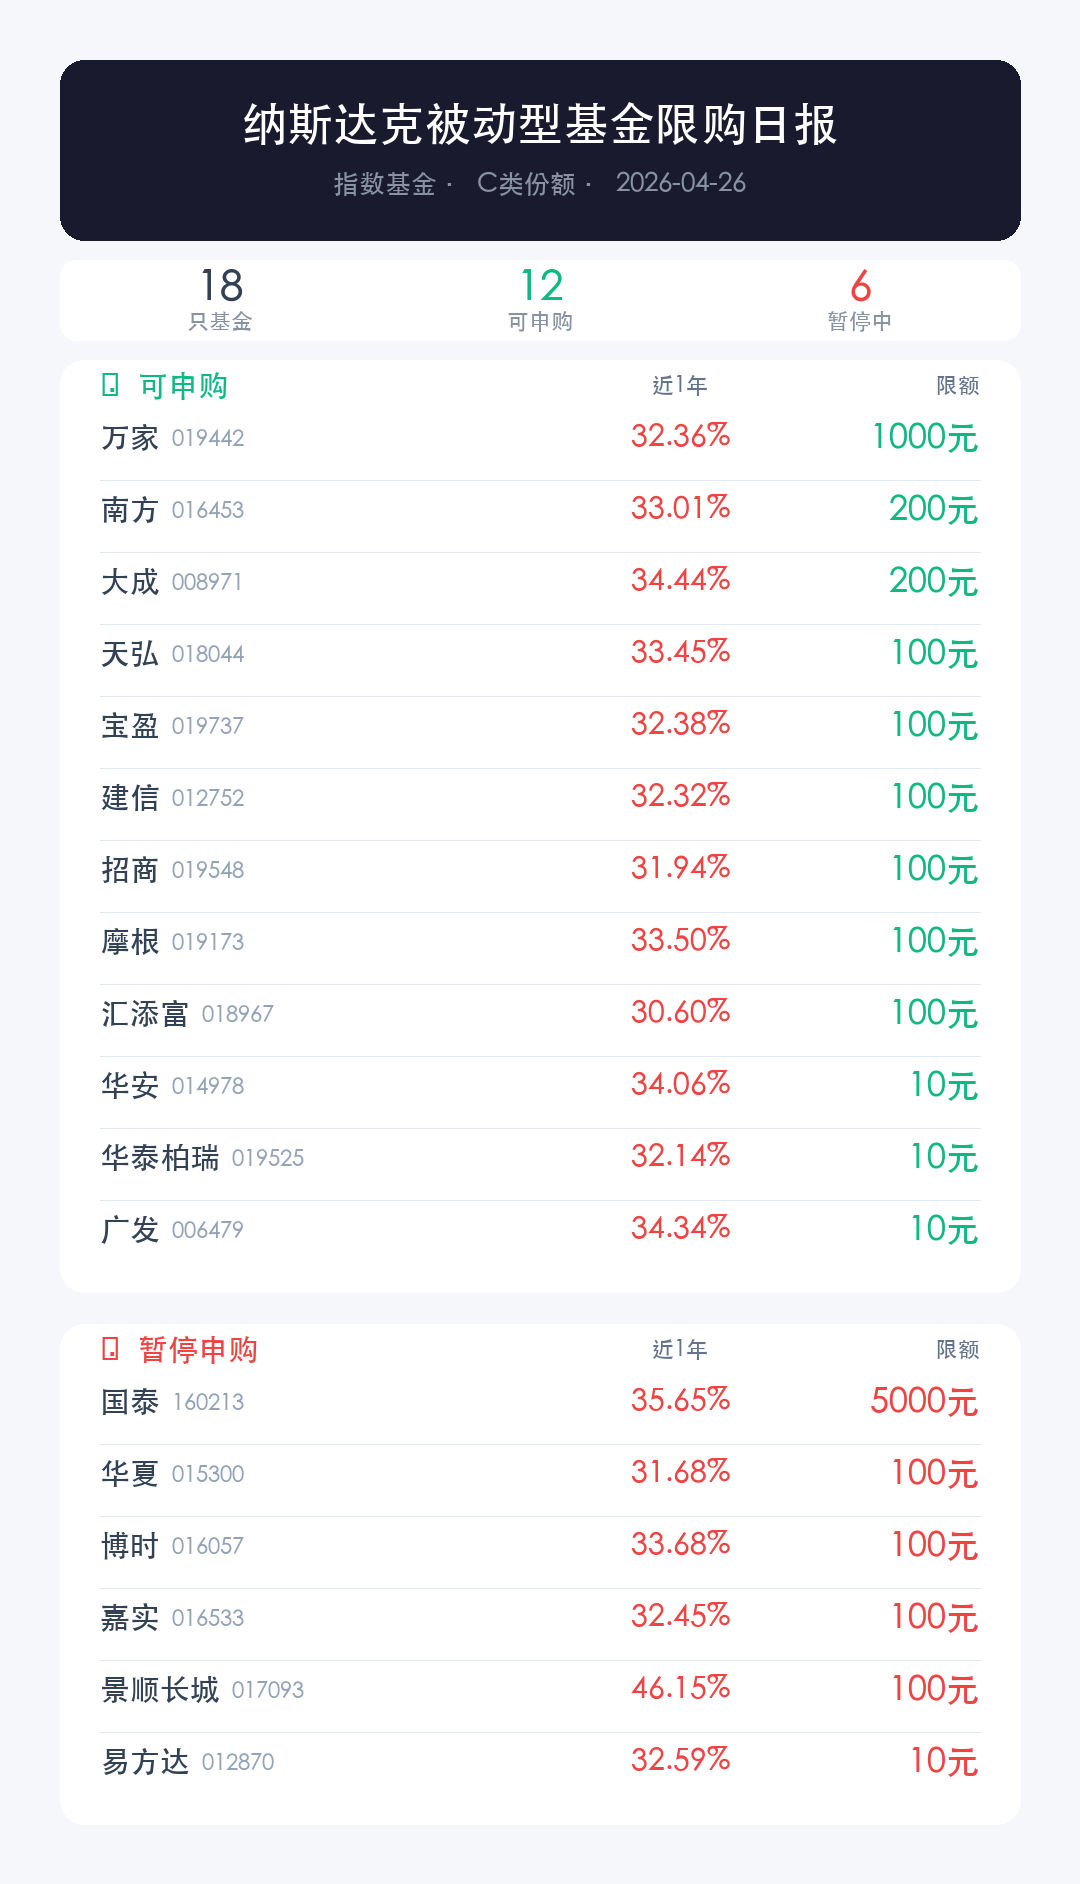
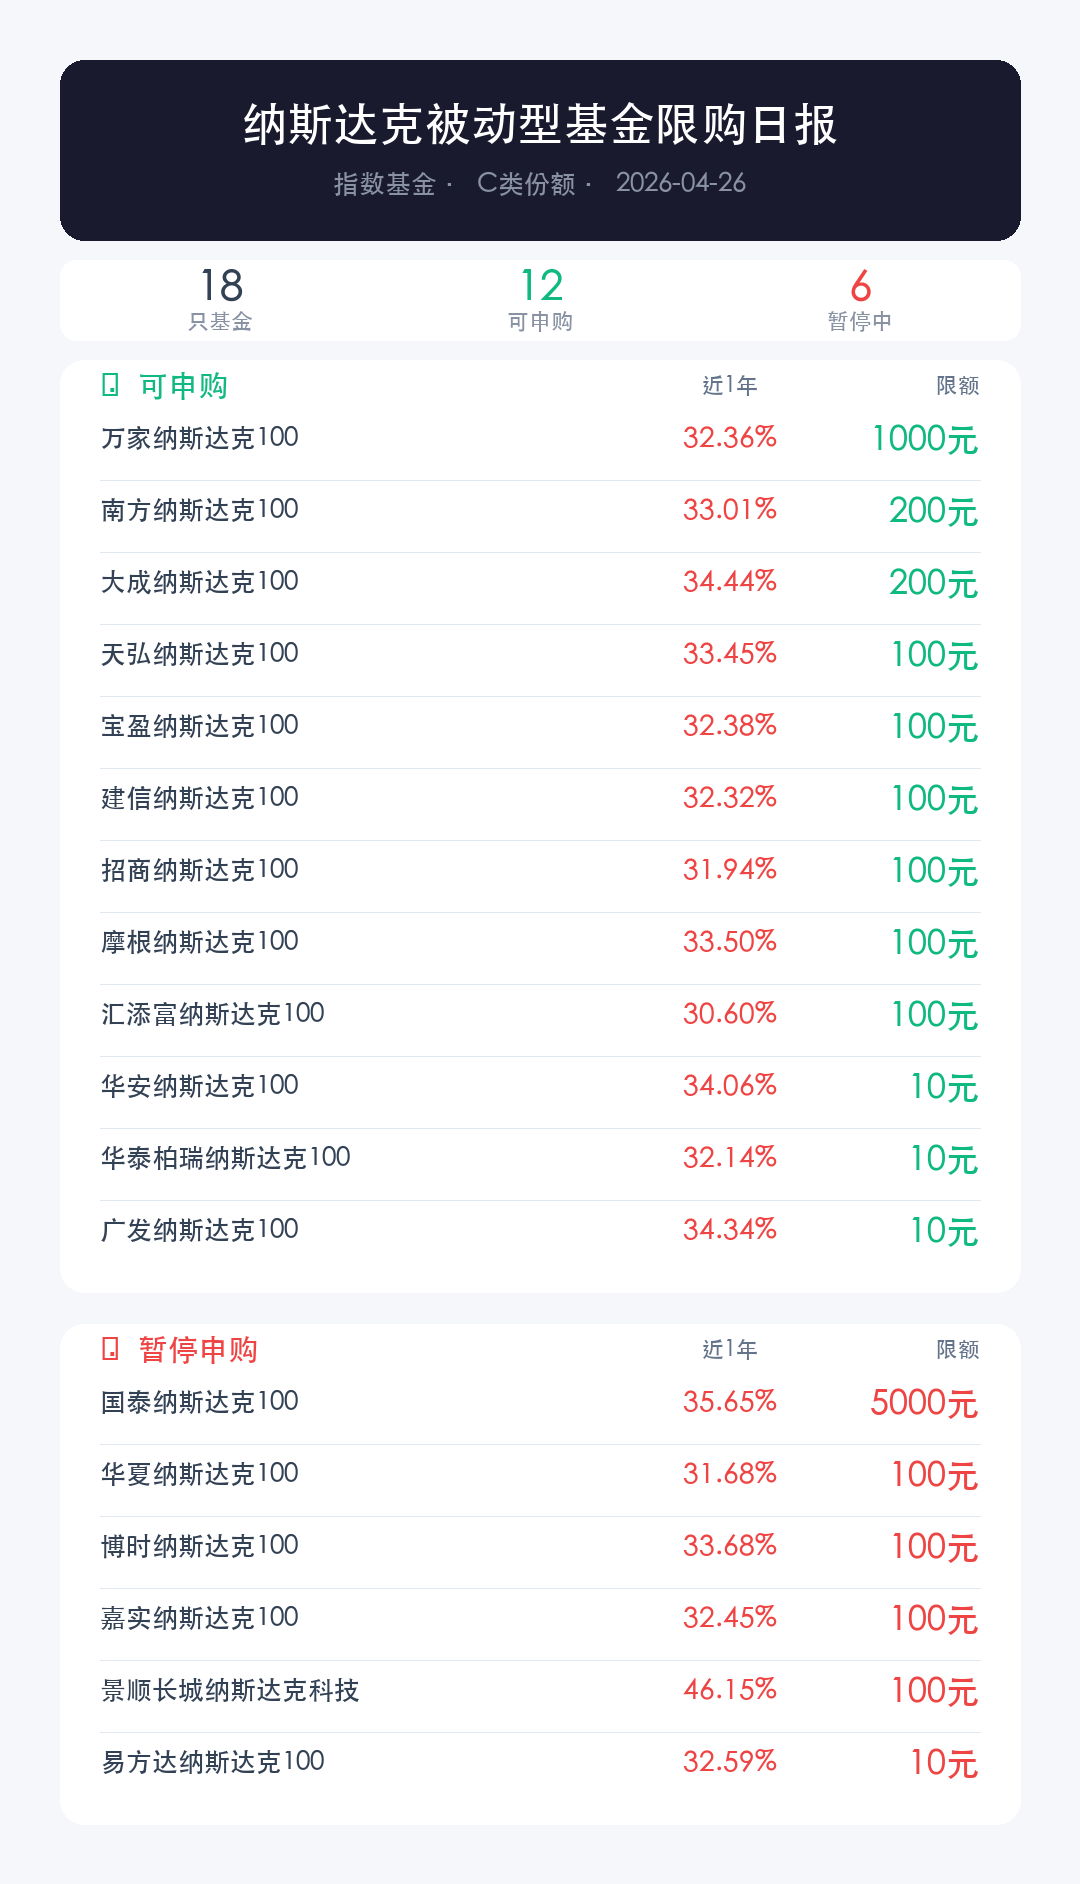
fix: 基金名称改用config中的display字段，以截图为准
- config 每只基金新增 display 字段，手动指定卡片显示名称
- 被动型：大成纳斯达克100、广发纳斯达克100 等
- 主动型：华宝纳斯达克精选、浦银安盛全球智能科技 等
- 去掉代码自动推断名称的逻辑，display 优先

diff --git a/fund_monitor/image.py b/fund_monitor/image.py
@@ -48,18 +48,63 @@ def _font(size: int) -> ImageFont.FreeTypeFont:
 
 
 # ── 工具函数 ──────────────────────────────────────
-_COMPANIES = [
-    "华泰柏瑞", "景顺长城", "易方达", "汇添富",
-    "大成", "广发", "国泰", "华安", "华夏", "南方", "天弘",
-    "嘉实", "博时", "招商", "摩根", "建信", "宝盈", "万家",
-]
+# ── 工具函数 ──────────────────────────────────────
 
 
-def _short_name(name: str) -> str:
-    for c in _COMPANIES:
-        if name.startswith(c):
-            return c
-    return name[:2]
+def _display_name(full_name: str) -> str:
+    """
+    从完整基金名称中提取适合卡片显示的简称。
+    
+    例：
+      "大成纳斯达克100ETF联接(QDII)C"          → "大成纳斯达克100C"
+      "易方达标普信息科技指数(QDII-LOF)A(人民币)" → "易方达标普信息科技A"
+      "华宝纳斯达克精选股票发起式(QDII)C"        → "华宝纳斯达克精选C"
+      "嘉实美国成长股票人民币"                    → "嘉实美国成长"
+      "国泰纳斯达克100指数"                      → "国泰纳斯达克100"
+    """
+    n = full_name
+    # 提取末尾的份额类型 A/C/E 等（在括号外的单个字母）
+    share_type = ""
+    m = re.search(r'[)）]\s*([A-Z])\s*$', n)
+    if m:
+        share_type = m.group(1)
+    elif re.search(r'[A-Z]\s*$', n):
+        # 末尾直接是字母，如 "...C"
+        share_type = n.strip()[-1]
+    # 也可能在括号里，如 "(QDII)C" 
+    if not share_type:
+        m = re.search(r'\(QDII[^)]*\)\s*([A-Z])', n)
+        if m:
+            share_type = m.group(1)
+
+    # 去掉各种后缀（按顺序多轮清理）
+    for pat in [
+        r'\(QDII[^)]*\)',       # (QDII), (QDII-LOF)
+        r'[（(][^)）]*[)）]',    # 其他括号内容
+        r'ETF发起式联接',
+        r'ETF发起联接',
+        r'ETF联接',
+        r'发起式联接',
+        r'发起联接',
+        r'联接',
+        r'发起式',
+        r'发起',
+        r'人民币',
+        r'量化选股',
+        r'[A-Z]$',              # 末尾份额字母
+        r'股票$',
+        r'混合$',
+        r'指数$',
+    ]:
+        n = re.sub(pat, '', n)
+
+    n = n.strip()
+
+    # 加回份额类型
+    if share_type:
+        n = f"{n}{share_type}"
+
+    return n
 
 
 def _limit_val(s: str) -> float:
@@ -132,7 +177,7 @@ def generate(results: list[dict], output_path: str,
     ROW_H, GAP, HDR_H, CR = 72, 32, 180, 24
     COL_HDR_H = 48
     IL, IR = PAD + CPAD, W - PAD - CPAD
-    COL_RET = 680  # 收益率列中心 x
+    COL_RET = 730  # 收益率列中心 x
 
     open_h = COL_HDR_H + len(opened) * ROW_H + 20
     susp_h = COL_HDR_H + len(suspended) * ROW_H + 20
@@ -143,7 +188,7 @@ def generate(results: list[dict], output_path: str,
 
     # 字体
     ft, fs, fsc, fch = _font(46), _font(26), _font(30), _font(22)
-    fn, fc, fl, fr = _font(30), _font(22), _font(34), _font(30)
+    fn, fc, fl, fr = _font(26), _font(22), _font(34), _font(28)
     fsn, fsl = _font(42), _font(22)
 
     y = PAD
@@ -186,23 +231,21 @@ def generate(results: list[dict], output_path: str,
         return y + h
 
     def _draw_row(d, ry, r, is_open):
-        nm = _short_name(r.get("name", ""))
-        code = r.get("code", "")
+        nm = r.get("display") or r.get("name", "")
         lim = _fmt_limit(r.get("purchase_limit", ""))
         ret = r.get("return_1y", "—") or "—"
 
-        d.text((IL, ry + 14), nm, fill=TEXT, font=fn)
-        nb = d.textbbox((0, 0), nm, font=fn)
-        d.text((IL + nb[2] - nb[0] + 12, ry + 20), code, fill=MUTED, font=fc)
+        # 基金名称（左侧）
+        d.text((IL, ry + 16), nm, fill=TEXT, font=fn)
 
-        # 收益率
+        # 收益率（居中对齐到列）
         rc = RED if ret != "—" and not ret.startswith("-") else (GREEN if ret.startswith("-") else MUTED)
         rb = d.textbbox((0, 0), ret, font=fr)
-        d.text((COL_RET - (rb[2] - rb[0]) // 2, ry + 14), ret, fill=rc, font=fr)
+        d.text((COL_RET - (rb[2] - rb[0]) // 2, ry + 16), ret, fill=rc, font=fr)
 
-        # 限额
+        # 限额（右对齐）
         lc = GREEN if is_open else RED
-        _right_text(d, IR, ry + 12, lim, fl, lc)
+        _right_text(d, IR, ry + 14, lim, fl, lc)
 
     y = _section(y, opened, "🟢 可申购", GREEN, True)
     y += GAP

diff --git a/fund_monitor/scraper.py b/fund_monitor/scraper.py
@@ -132,6 +132,9 @@ def fetch_all(fund_list: list[dict]) -> list[dict]:
         info = fetch_one(code)
         if not info.get("name") or len(info["name"]) < 4:
             info["name"] = name
+        # 保留 config 中的 display 字段
+        if fund.get("display"):
+            info["display"] = fund["display"]
         results.append(info)
 
         if i < total - 1:
